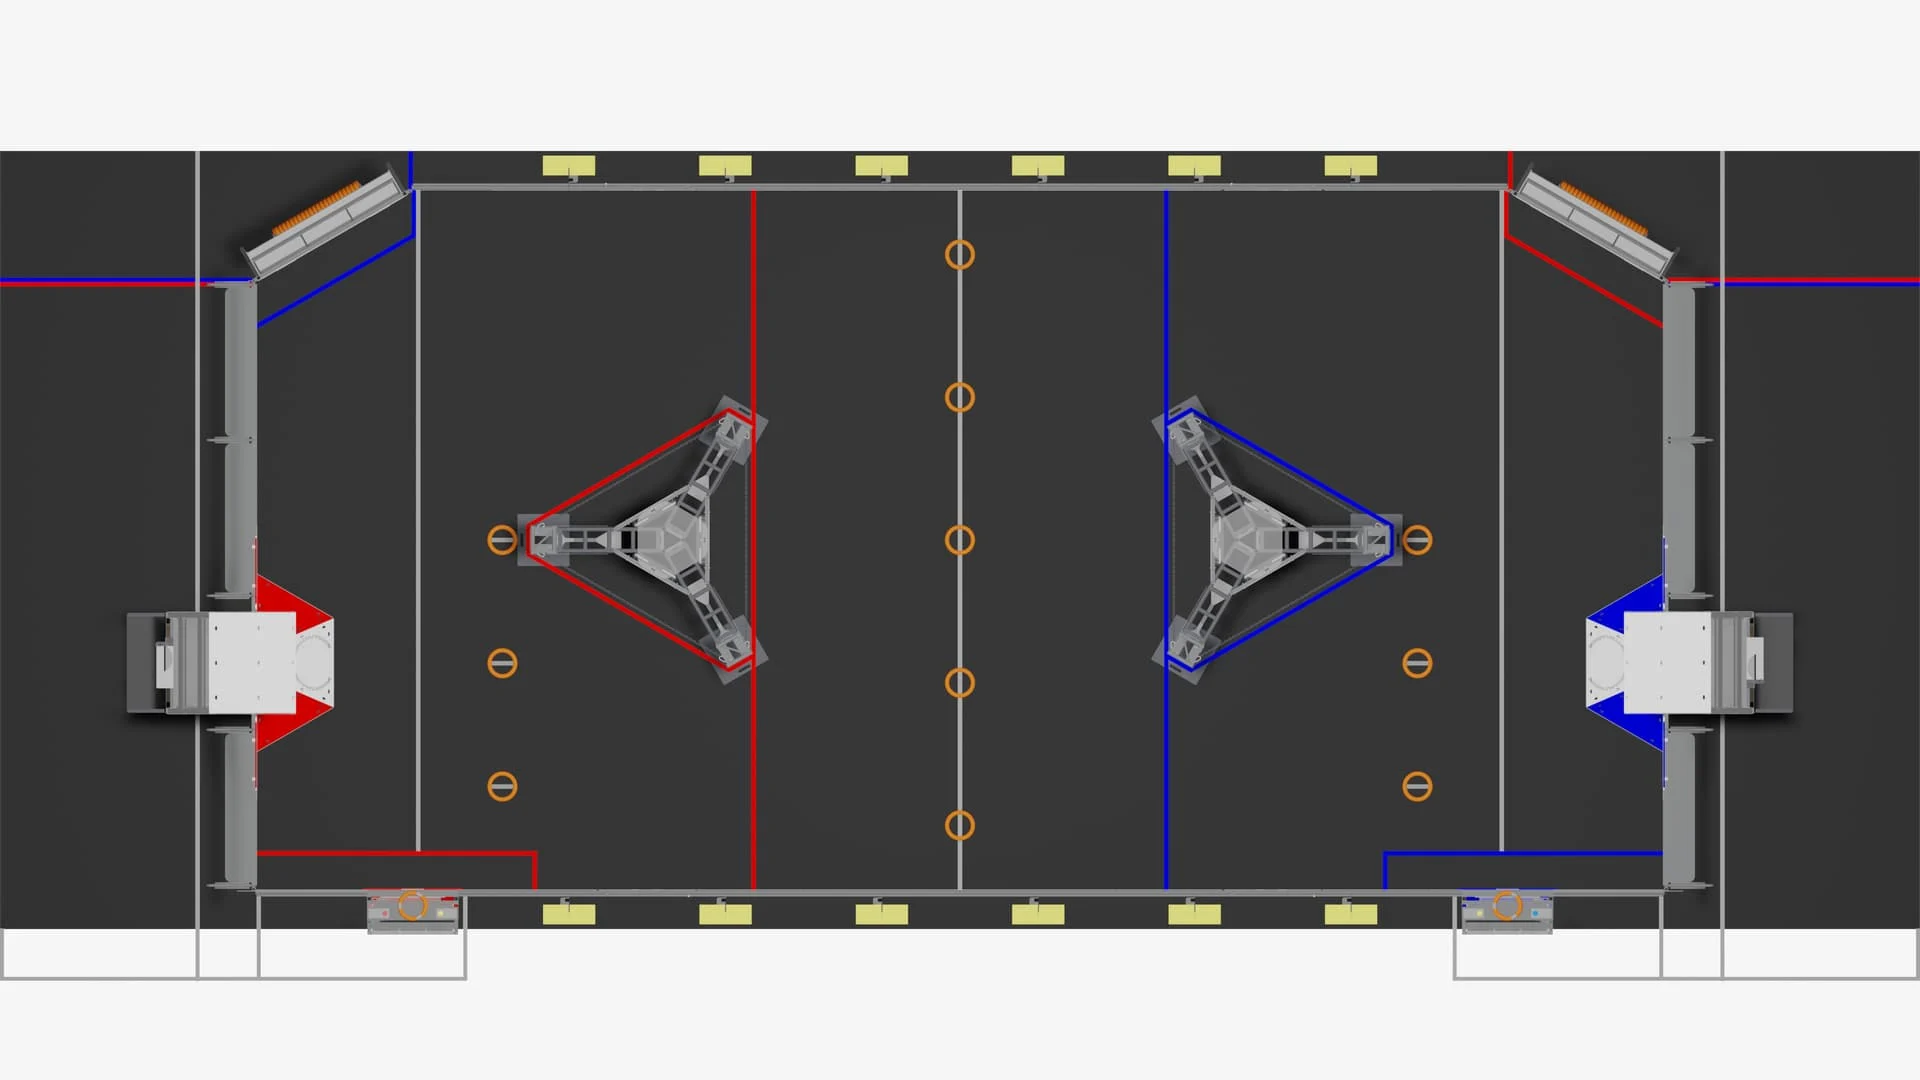
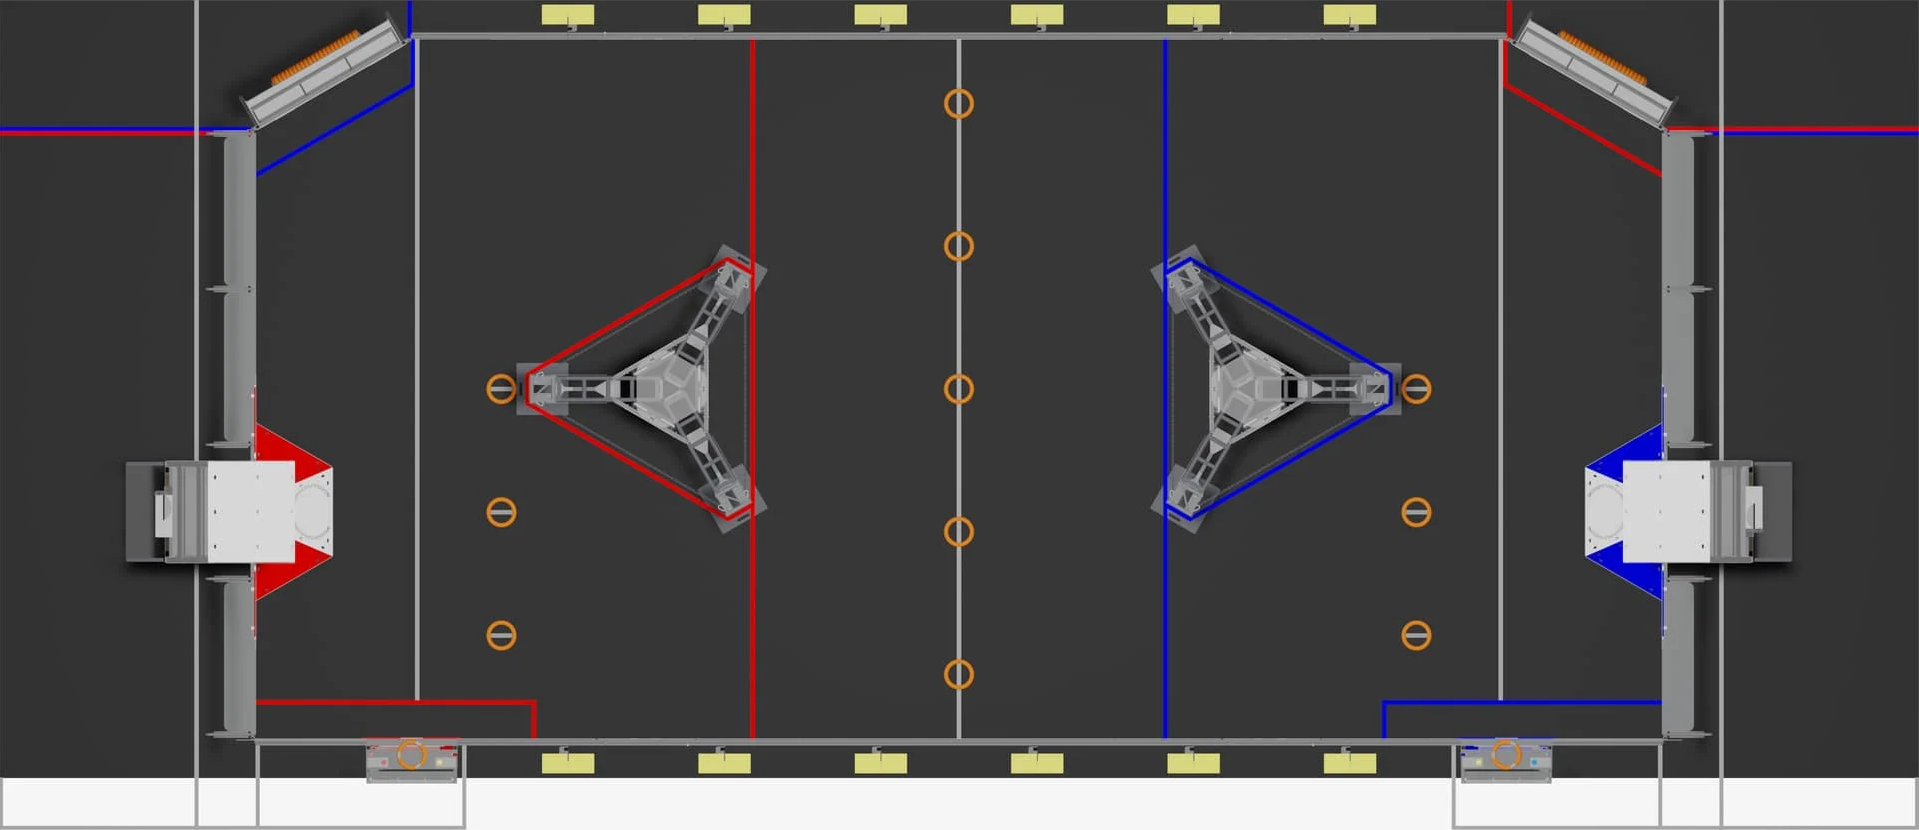
trim map picture

diff --git a/templates/index.html b/templates/index.html
@@ -177,27 +177,27 @@
         viewBox="0 0 1920 1080">
         <image width="1920" height="1080" xlink:href="/static/map.png"></image> <a class="clickable_note" xlink:href=""
           data-noteid="1">
-          <rect x="479" y="516" fill="#f00" style="opacity: 0;" width="50" height="50"></rect>
+          <rect x="479" y="491" fill="#f00" style="opacity: 0;" width="50" height="50"></rect>
         </a><a class="clickable_note" xlink:href="" data-noteid="2">
-          <rect x="479" y="638" fill="#f00" style="opacity: 0;" width="50" height="50"></rect>
+          <rect x="479" y="613" fill="#f00" style="opacity: 0;" width="50" height="50"></rect>
         </a><a class="clickable_note" xlink:href="" data-noteid="3">
-          <rect x="480" y="762" fill="#f00" style="opacity: 0;" width="50" height="50"></rect>
+          <rect x="480" y="737" fill="#f00" style="opacity: 0;" width="50" height="50"></rect>
         </a><a class="clickable_note" xlink:href="" data-noteid="4">
-          <rect x="935" y="231" fill="#f00" style="opacity: 0;" width="50" height="50"></rect>
+          <rect x="935" y="206" fill="#f00" style="opacity: 0;" width="50" height="50"></rect>
         </a><a class="clickable_note" xlink:href="" data-noteid="8">
-          <rect x="939" y="799" fill="#f00" style="opacity: 0;" width="50" height="50"></rect>
+          <rect x="939" y="774" fill="#f00" style="opacity: 0;" width="50" height="50"></rect>
         </a><a class="clickable_note" xlink:href="" data-noteid="7">
-          <rect x="939" y="660" fill="#f00" style="opacity: 0;" width="50" height="50"></rect>
+          <rect x="939" y="635" fill="#f00" style="opacity: 0;" width="50" height="50"></rect>
         </a><a class="clickable_note" xlink:href="" data-noteid="6">
-          <rect x="936" y="517" fill="#f00" style="opacity: 0;" width="50" height="50"></rect>
+          <rect x="936" y="491" fill="#f00" style="opacity: 0;" width="50" height="50"></rect>
         </a><a class="clickable_note" xlink:href="" data-noteid="5">
-          <rect x="936" y="371" fill="#f00" style="opacity: 0;" width="50" height="50"></rect>
+          <rect x="936" y="346" fill="#f00" style="opacity: 0;" width="50" height="50"></rect>
         </a><a class="clickable_note" xlink:href="" data-noteid="9">
-          <rect x="1394" y="513" fill="#f00" style="opacity: 0;" width="50" height="50"></rect>
+          <rect x="1394" y="491" fill="#f00" style="opacity: 0;" width="50" height="50"></rect>
         </a><a class="clickable_note" xlink:href="" data-noteid="10">
-          <rect x="1395" y="636" fill="#f00" style="opacity: 0;" width="50" height="50"></rect>
+          <rect x="1395" y="611" fill="#f00" style="opacity: 0;" width="50" height="50"></rect>
         </a><a class="clickable_note" xlink:href="" data-noteid="11">
-          <rect x="1397" y="757" fill="#f00" style="opacity: 0;" width="50" height="50"></rect>
+          <rect x="1397" y="732" fill="#f00" style="opacity: 0;" width="50" height="50"></rect>
         </a>
       </svg>
     </div>
